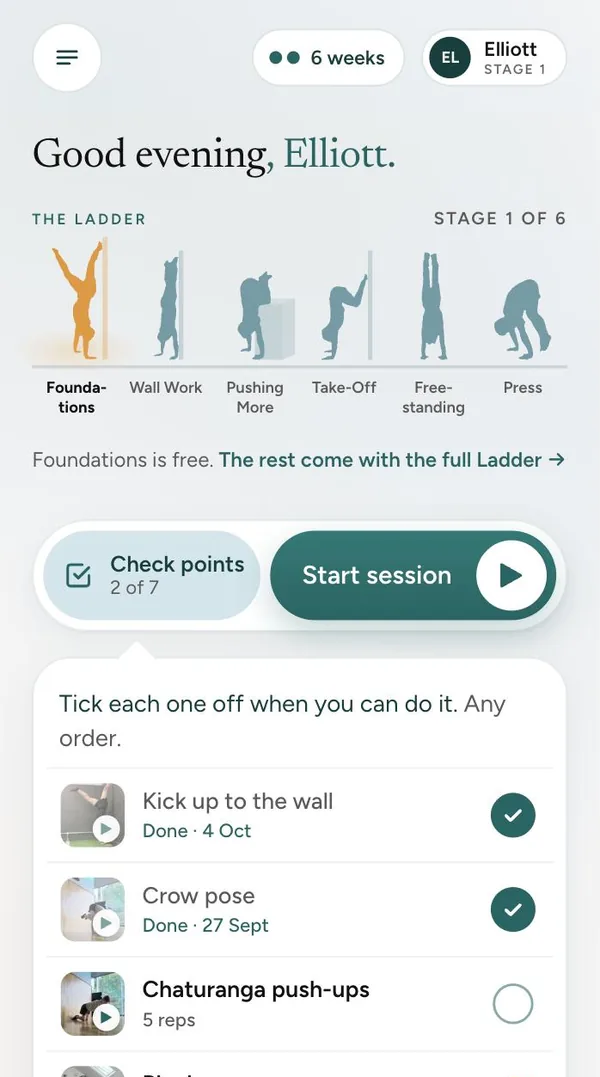
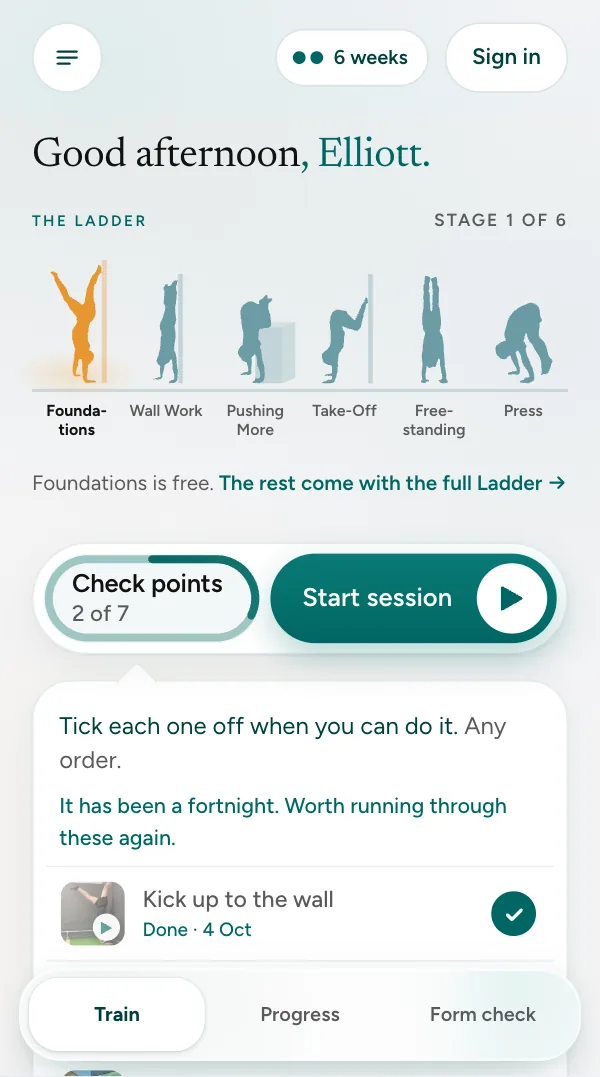
Home page app screens retaken from the current build
The five phones now show the app as it is: the tab bar, the player with
its controls, the Learn list and the form check as a new visitor sees it.
tools/app-shots.mjs remakes them with headless Chrome at 600 by 1077.

diff --git a/index.html b/index.html
@@ -3368,23 +3368,23 @@ details.faq-item a { color: var(--green); font-weight: 600; text-decoration: und
     <button type="button" class="app2-nav app2-prev" aria-label="Previous screens" onclick="appRail(-1)" disabled>&larr;</button>
     <div class="app2-phones" id="appPhones">
       <figure class="app2-phone">
-        <div class="app2-screen"><img src="assets/app/ladder.webp?v=20261018" alt="The six stages, from Foundations to the press, and the check points for the one you are on" width="600" height="1077" loading="lazy" decoding="async"></div>
+        <div class="app2-screen"><img src="assets/app/ladder.webp?v=20261022" alt="The six stages, from Foundations to the press, and the check points for the one you are on" width="600" height="1077" loading="lazy" decoding="async"></div>
         <figcaption><b>Six stages</b>Reach the check points and the next one opens.</figcaption>
       </figure>
       <figure class="app2-phone">
-        <div class="app2-screen"><img src="assets/app/choose.webp?v=20261018" alt="Choosing a session: level and how long" width="600" height="1077" loading="lazy" decoding="async"></div>
+        <div class="app2-screen"><img src="assets/app/choose.webp?v=20261022" alt="Choosing a session: level and how long" width="600" height="1077" loading="lazy" decoding="async"></div>
         <figcaption><b>Two taps</b>How long and how hard, and it builds the session.</figcaption>
       </figure>
       <figure class="app2-phone">
-        <div class="app2-screen"><img src="assets/app/player.webp?v=20261018" alt="The follow along player, timing a set" width="600" height="1077" loading="lazy" decoding="async"></div>
+        <div class="app2-screen"><img src="assets/app/player.webp?v=20261022" alt="The follow along player, timing a set" width="600" height="1077" loading="lazy" decoding="async"></div>
         <figcaption><b>Follow along</b>Every set timed, every drill filmed.</figcaption>
       </figure>
       <figure class="app2-phone">
-        <div class="app2-screen"><img src="assets/app/explainers.webp?v=20261018" alt="Learn at Foundations: pick the thing in your way, with a short read or film for each" width="600" height="1077" loading="lazy" decoding="async"></div>
+        <div class="app2-screen"><img src="assets/app/explainers.webp?v=20261022" alt="Learn at Foundations: pick the thing in your way, with a short read or film for each" width="600" height="1077" loading="lazy" decoding="async"></div>
         <figcaption><b>Learn</b>Pick the thing in your way, and there is a short read or film for it.</figcaption>
       </figure>
       <figure class="app2-phone">
-        <div class="app2-screen"><img src="assets/app/formcheck.webp?v=20261018" alt="Send one clip, free, and Elliott replies on video" width="600" height="1077" loading="lazy" decoding="async"></div>
+        <div class="app2-screen"><img src="assets/app/formcheck.webp?v=20261022" alt="Send one clip, free, and Elliott replies on video" width="600" height="1077" loading="lazy" decoding="async"></div>
         <figcaption><b>A free form check</b>Send me a clip and I show you, on video, the one thing to change.</figcaption>
       </figure>
     </div>
